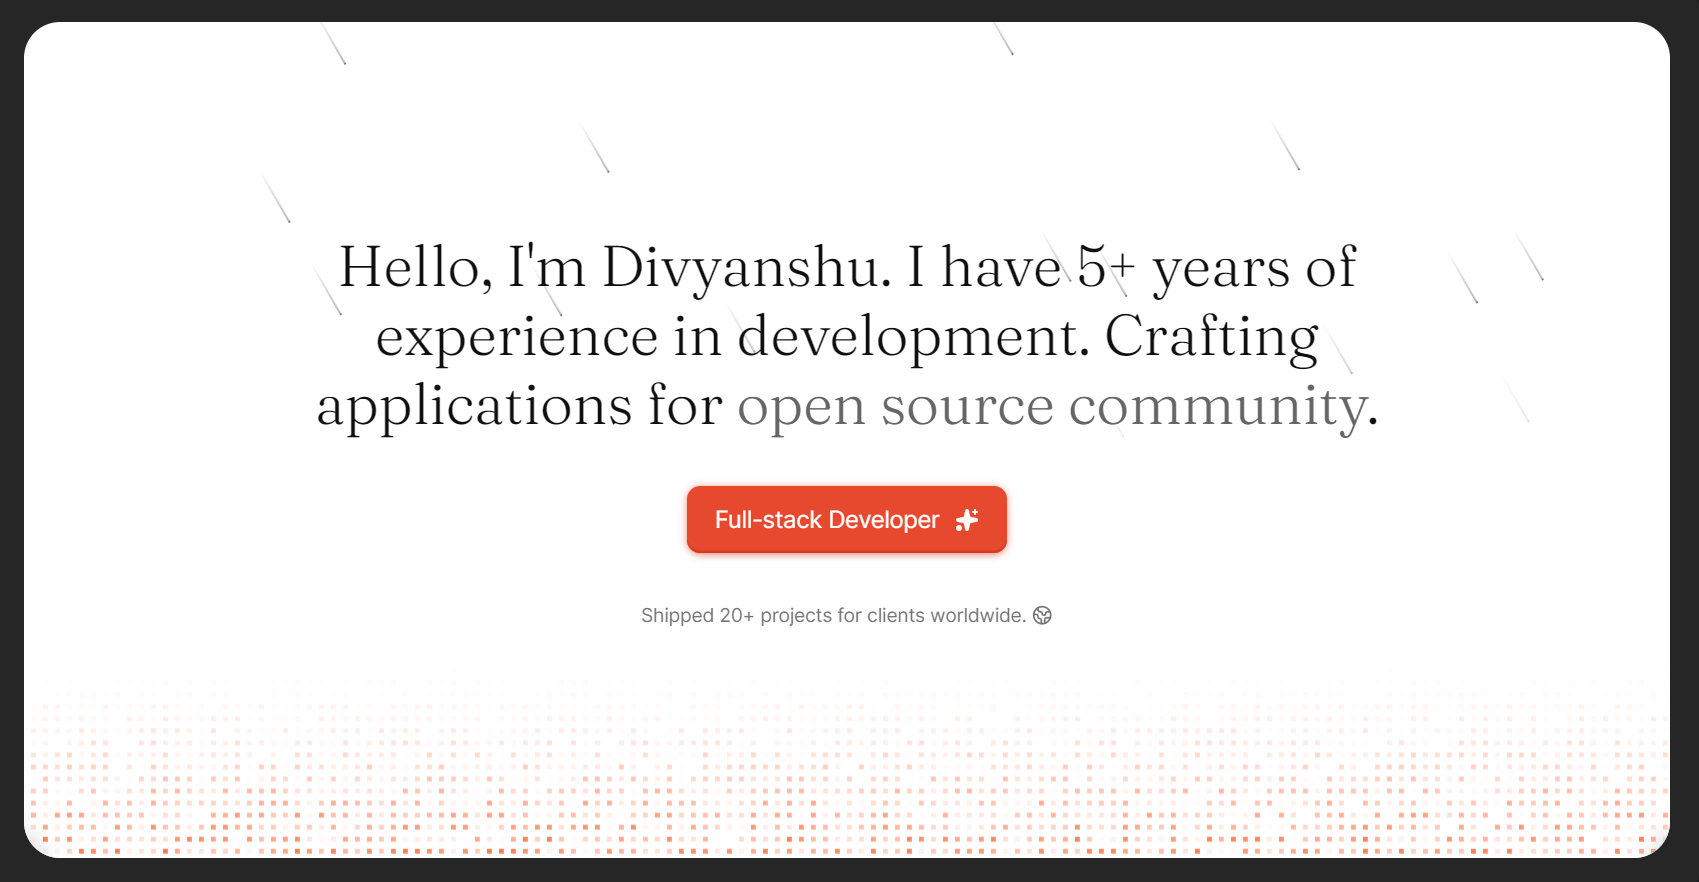
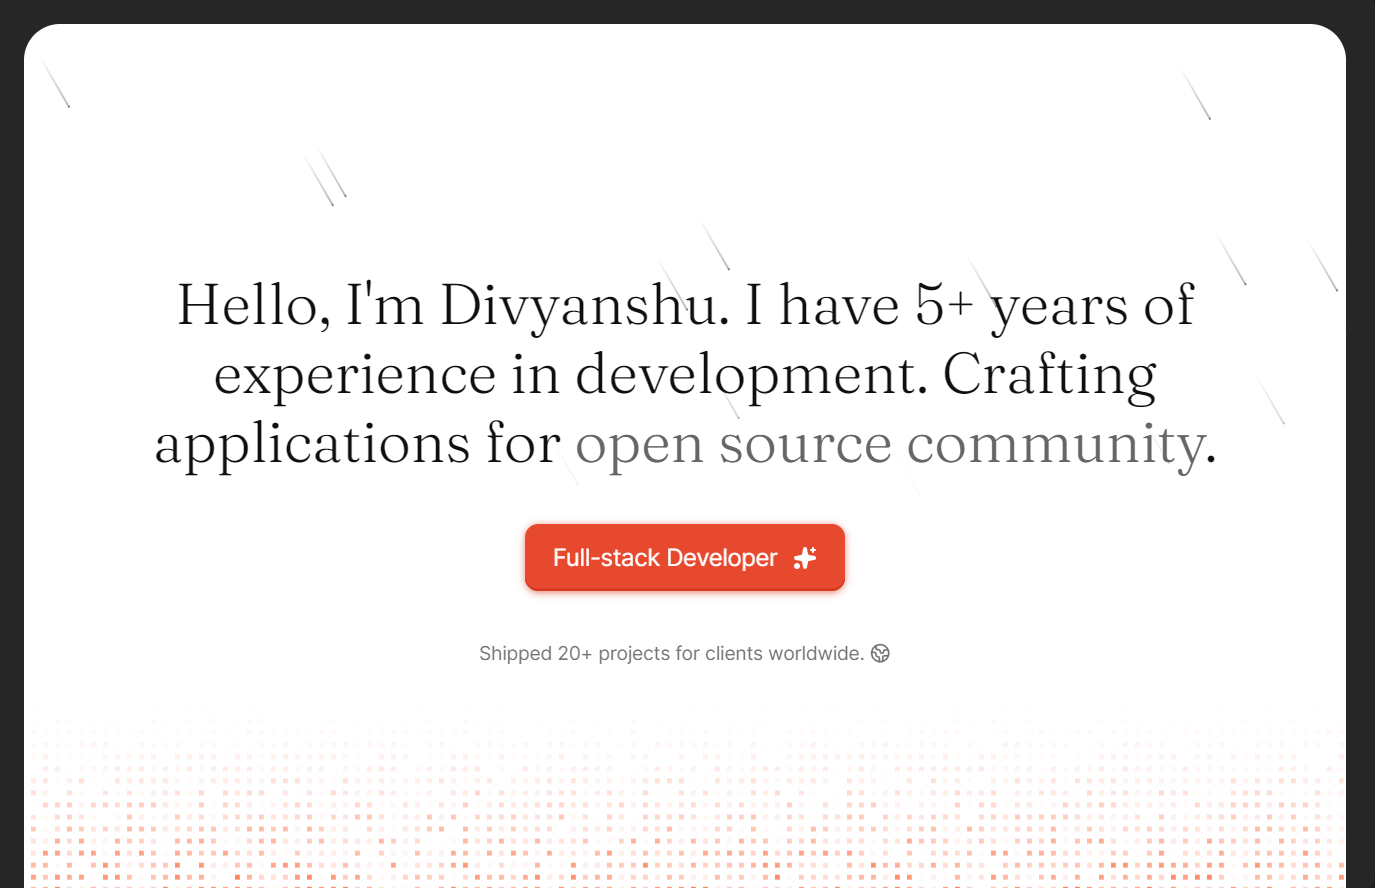
🧭 fix(config): update OG image

Changed region(s): [[0.0916, 0.2755, 0.8858, 0.7653], [0.0, 0.0306, 1.0, 1.0], [0.0305, 0.0, 0.0611, 0.0306]]

diff --git a/src/app/og/page.tsx b/src/app/og/page.tsx
@@ -87,10 +87,11 @@ export default function Home() {
         fillWidth
         fitHeight
         padding="m"
+        paddingBottom="0"
         style={{
           backgroundColor: colors.background_dark,
-          height: "100vh",
-          maxHeight: "100vh",
+          height: "105vh",
+          maxHeight: "105vh",
         }}
         gap="4"
         direction="column"
@@ -104,7 +105,7 @@ export default function Home() {
           center
           style={{
             backgroundColor: colors.background_light,
-            maxHeight: "calc(100vh - 32px)",
+            maxHeight: "calc(100vh + 30px)",
           }}
         >
           <Flex
